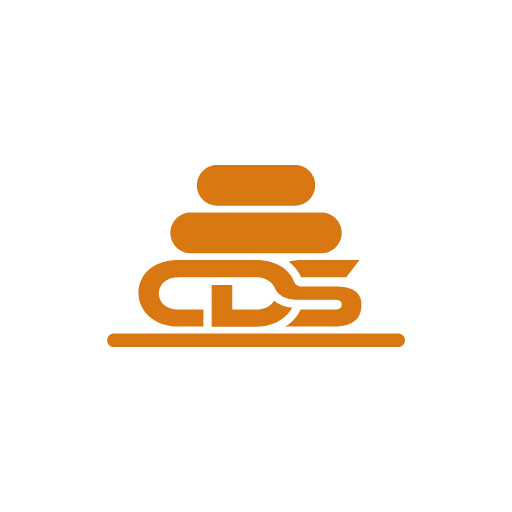
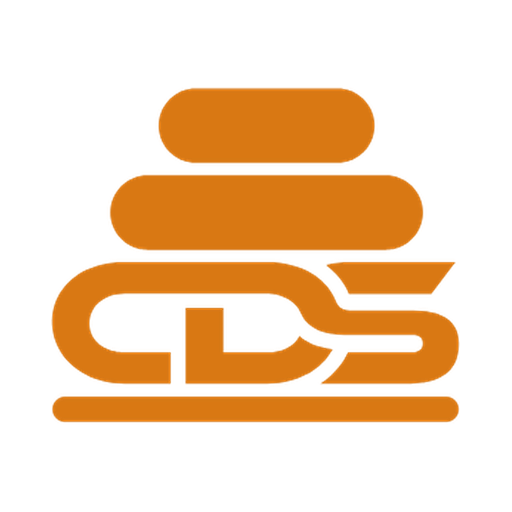
1.147.2: slike za mape na strežniku, ožja črta v ikoni, prozorne ikone spletne aplikacije
Claude-Session: https://claude.ai/code/session_01MRdpRVYkmwwPLSwjyrCq63

Changed region(s): [[0.0938, 0.1562, 0.9062, 0.8438]]

diff --git a/release-notes/v1.147.2.md b/release-notes/v1.147.2.md
@@ -1,0 +1,19 @@
+## What's new in 1.147.2
+
+- **Pictures for server folders**
+  Every folder on the server can now have a picture: in the folder's menu (three dots) choose "Add picture", "Change picture" or "Remove picture". The picture is kept in the folder on the server, so it shows in the web version, on the iPad and in the desktop program.
+- **Tighter program icon**
+  The line under the CDS lettering is as wide as the lettering, so the logo fills the icon more. The web app icons are transparent too.
+
+---
+
+## Kaj je novega v 1.147.2
+
+- **Slike za mape na strežniku**
+  Vsaka mapa na strežniku lahko zdaj dobi sliko: v meniju mape (tri pike) izberi »Add picture«, »Change picture« ali »Remove picture«. Slika je shranjena v mapi na strežniku, zato se prikaže v spletni različici, na iPadu in v namiznem programu.
+- **Ožja črta v ikoni programa**
+  Črta pod napisom CDS je zdaj široka kot napis, zato logotip bolj zapolni ikono. Tudi ikone spletne aplikacije so prozorne.
+
+---
+
+Layerling Desktop is a desktop version of the open-source [layerling](https://github.com/henmedia/layerling) (version 1.147.0) with a Slovenian interface. / Layerling Desktop je namizna različica odprtokodnega programa [layerling](https://github.com/henmedia/layerling) (različica 1.147.0) s slovenskim vmesnikom.
